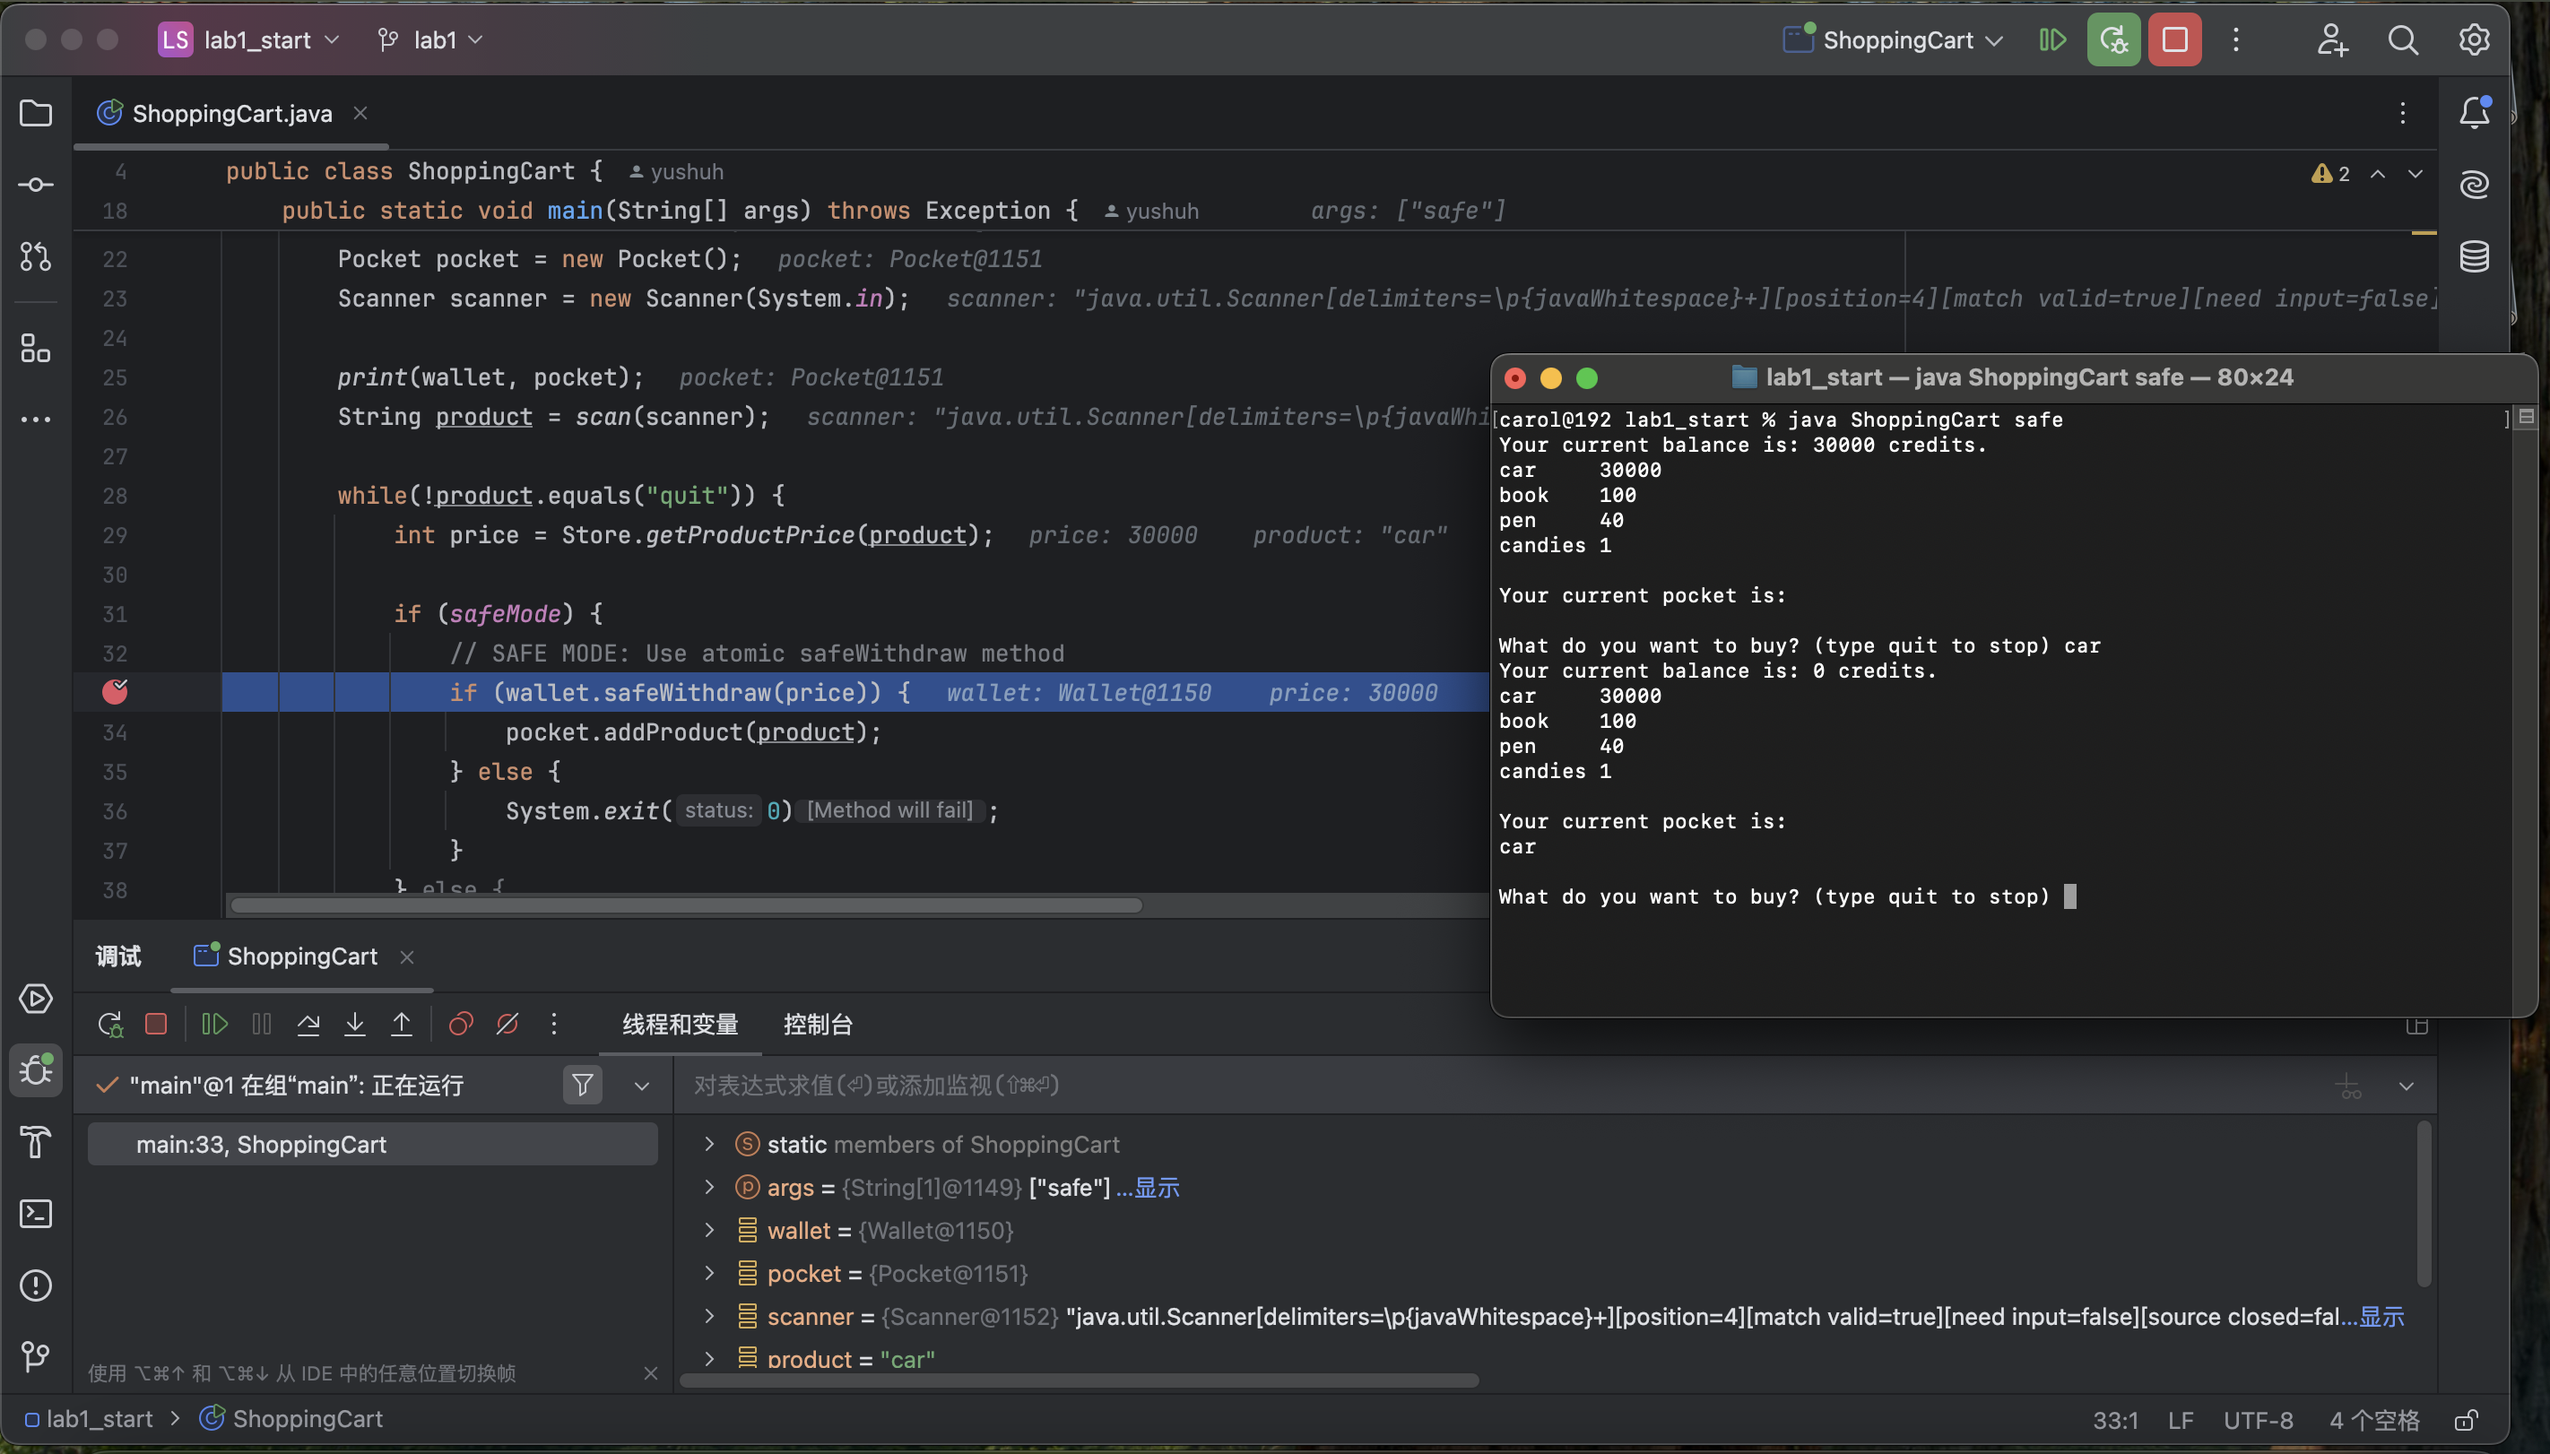
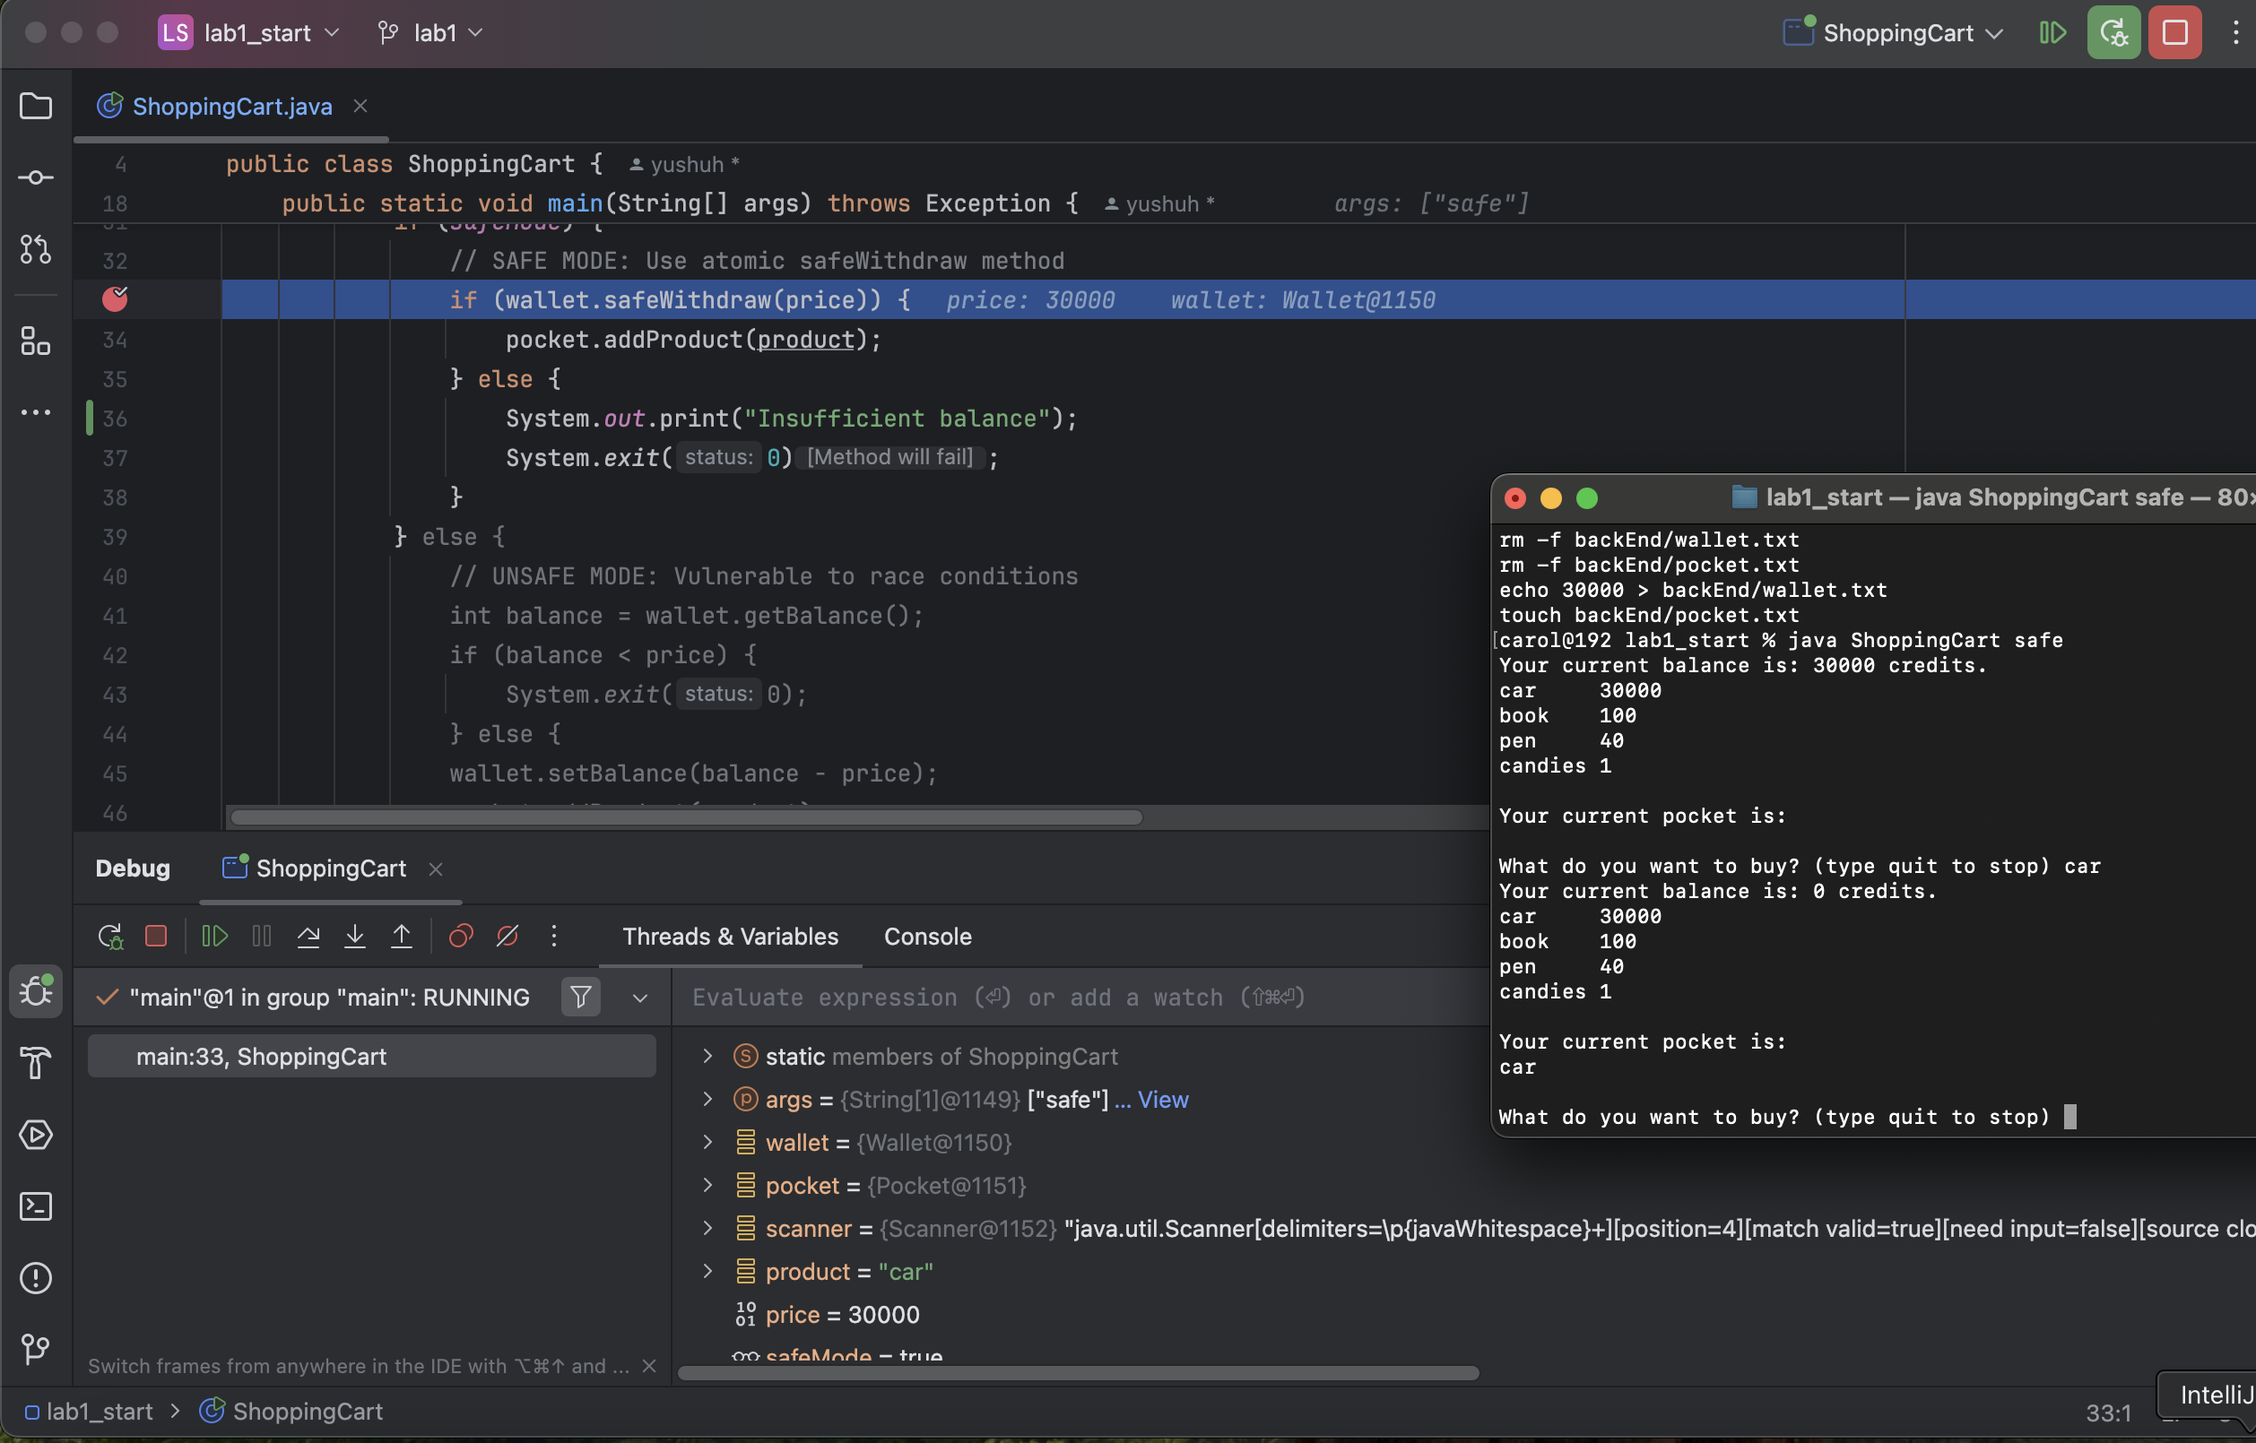
add output

diff --git a/lab1_start/ShoppingCart.java b/lab1_start/ShoppingCart.java
@@ -33,6 +33,7 @@ public class ShoppingCart {
                 if (wallet.safeWithdraw(price)) {
                     pocket.addProduct(product);
                 } else {
+                    System.out.print("Insufficient balance");
                     System.exit(0);
                 }
             } else {

diff --git a/lab1_start/Report1.md b/lab1_start/Report1.md
@@ -36,6 +36,8 @@ We lock only the file, and only for the shortest necessary duration of the criti
 It fully protects against multiprocessing-based TOCTOU attacks where `synchronized` or `static lock` in Java would be ineffective as it can only protect against multithreading-based attacks.  
 By applying synchronization only to specific operations that manipulate shared resources to make those critical operations atomic, we avoid potential TOCTOU attacks and minimize performance overhead.
 
-![image-20250411225311443](/Users/carol/Documents/ALG/ALG-3/lbs/lbsLab/lab1_start/report_img/3.png)
+![image-20250411232339971](/Users/carol/Documents/ALG/ALG-3/lbs/lbsLab/lab1_start/report_img/3.png)
 
-![image-20250411225402316](/Users/carol/Documents/ALG/ALG-3/lbs/lbsLab/lab1_start/report_img/4.png)The attack by using the breakpoint from Part 1 now fails.
+![image-20250411232418850](/Users/carol/Documents/ALG/ALG-3/lbs/lbsLab/lab1_start/report_img/4.png)
+
+The attack by using the breakpoint from Part 1 now fails.
